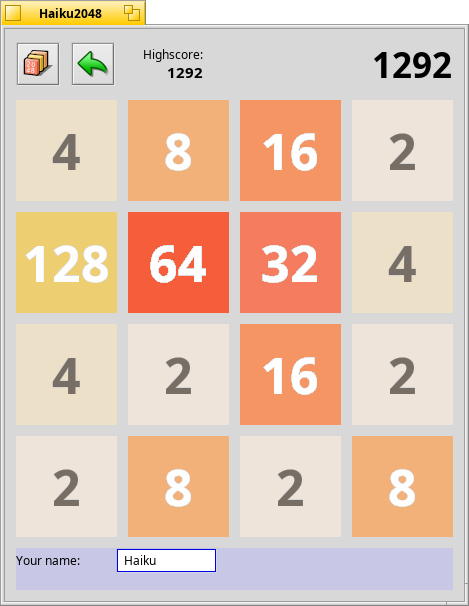
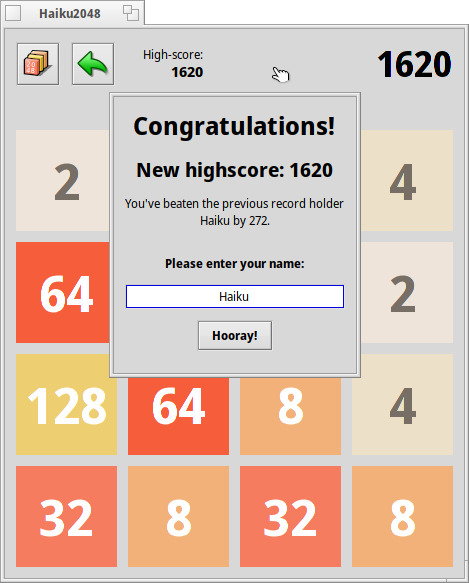
Enter highscore name in a floating window
Top score bar stays put on window resize

Top score bar stays put on window resize (#34)

Add files from pull request #32

Update layout on high score window

Send BMessage to save score and name

Designing the highscore window

Redesign High-score window

Handle previous score and username

Handle no previous highscore

Remove unnecessary include

Upload new screenshot

Change high-score message

diff --git a/HighscoreWindow.cpp b/HighscoreWindow.cpp
@@ -1,0 +1,122 @@
+/*
+ * Copyright 2022, Harshit Sharma <harshits908@gmail.com>
+ * Copyright 2023, Johan Wagenheim
+ * This file is distributed under the terms of the MIT license
+ */
+
+#include "HighscoreWindow.h"
+#include "WindowBoard.h"
+#include "Game.h"
+
+#include <Catalog.h>
+#include <string>
+#include <LayoutBuilder.h>
+#include <Message.h>
+#include <Messenger.h>
+#include <Button.h>
+#include <String.h>
+#include <StringView.h>
+
+#undef B_TRANSLATION_CONTEXT
+#define B_TRANSLATION_CONTEXT "HighscoreWindow"
+
+HighscoreWindow::HighscoreWindow(const char* oldHighscorer, const int32 oldHighscore, 
+	const int32 newHighscore, const BMessenger &messenger)
+	:
+	BWindow(BRect(200, 200, 1,1), 0, B_MODAL_WINDOW, B_NOT_CLOSABLE | B_NOT_RESIZABLE),
+				fMessenger(messenger)
+{
+	BStringView* congratulations = new BStringView("congratulations",
+											B_TRANSLATE("Congratulations!"));
+	congratulations->SetFont(be_bold_font);
+	congratulations->SetFontSize(25);
+	congratulations->SetAlignment(B_ALIGN_HORIZONTAL_CENTER);
+	
+	BString newHighscoreText = B_TRANSLATE("New high-score: %newhighscore%");
+	newHighscoreText.ReplaceFirst("%newhighscore%", std::to_string(newHighscore).c_str());
+	BStringView* newHighScore = new BStringView("newHighScore", newHighscoreText.String());
+	newHighScore->SetFont(be_bold_font);
+	newHighScore->SetFontSize(20);
+	newHighScore->SetAlignment(B_ALIGN_HORIZONTAL_CENTER);
+	
+	BStringView* inputlabel = new BStringView("inputlabel",
+										B_TRANSLATE("Please enter your name:"));
+	inputlabel->SetAlignment(B_ALIGN_HORIZONTAL_CENTER);
+	inputlabel->SetFont(be_bold_font);
+
+	fInputBox = new
+		BTextControl("NameInput", NULL, NULL, new BMessage(H2048_NAME_ENTERED));
+	fInputBox->SetText(B_TRANSLATE("Anonymous"));
+	fInputBox->SetAlignment(B_ALIGN_HORIZONTAL_CENTER,B_ALIGN_HORIZONTAL_CENTER);
+	fInputBox->MakeFocus();
+	
+	BString previousWinner;
+	previousWinner << B_TRANSLATE("This is the first record!");
+	if (oldHighscorer[0]) {
+		// Replace with previous winner and score difference
+		previousWinner = B_TRANSLATE("You've beaten the previous record holder,\n"
+										"%oldHighscorer%, by %deltaScore%.");
+		previousWinner.ReplaceFirst("%oldHighscorer%", oldHighscorer);
+		previousWinner.ReplaceFirst("%deltaScore%", 
+					std::to_string(newHighscore - oldHighscore).c_str());
+	}
+
+	BStringView* previousWinnerText = new BStringView("previousWinner", previousWinner.String());
+	previousWinnerText->SetAlignment(B_ALIGN_HORIZONTAL_CENTER);	
+	
+	BButton *saveName = new BButton("savename", B_TRANSLATE("Hooray!"),
+		new BMessage(H2048_NAME_ENTERED));
+	saveName->SetFontSize(15);
+	saveName->SetFont(be_bold_font);
+	saveName->ResizeToPreferred();
+
+	BLayoutBuilder::Group<>(this, B_VERTICAL)
+		.SetInsets(B_USE_WINDOW_INSETS)
+		.AddGroup(B_VERTICAL)
+			.Add(congratulations)
+			.Add(newHighScore)
+			.Add(previousWinnerText)
+			.AddStrut(2)
+			.Add(inputlabel)
+			.Add(fInputBox)
+			.Add(saveName)
+			.AddGlue()
+			.End();
+			
+	this->ResizeToPreferred();
+}
+
+bool
+HighscoreWindow::QuitRequested()
+{
+	return true;
+}
+
+
+HighscoreWindow::~HighscoreWindow()
+{
+}
+
+
+void
+HighscoreWindow::MessageReceived(BMessage* message)
+{
+	switch(message->what)
+	{
+		case H2048_NAME_ENTERED:
+		{
+			// Set a default value if empty
+			if (!fInputBox->Text()[0])
+				fInputBox->SetText(B_TRANSLATE("Anonymous"));
+
+			BMessage *req = new BMessage(H2048_NAME_REQUESTED);
+			req->AddString("playername", fInputBox->Text());
+			fMessenger.SendMessage(req);
+			Quit();
+			break;
+		}		
+		default:
+			BWindow::MessageReceived(message);
+			break;
+	}
+}

diff --git a/WindowBoard.cpp b/WindowBoard.cpp
@@ -1,5 +1,6 @@
 /*
  * Copyright (c) 2015 Markus Himmel
+ * Copyright 2022, Harshit Sharma <harshits908@gmail.com>
  * This file is distributed under the terms of the MIT license
  */
 
@@ -62,6 +63,7 @@ GameWindow::GameWindow(WindowBoard *master)
 			.AddGlue()
 			.Add(fScore)
 			.End()
+		.AddGlue()
 		.Add(fBoard);
 
 
@@ -185,27 +187,14 @@ GameWindow::MessageReceived(BMessage *message)
 		}
 		case H2048_REQUEST_NAME:
 		{
-			BView *RequestBox = new BView(BRect(), "reqbox", B_FOLLOW_LEFT, B_WILL_DRAW);
-			RequestBox->SetViewColor(ui_color(B_PANEL_BACKGROUND_COLOR));
-			AddChild(RequestBox);
-			fInputBox = new BTextControl(BRect(BPoint(0,10), Bounds().RightBottom() - BPoint(25,0)),
-				"name", B_TRANSLATE("Your name:"), "", new BMessage(H2048_SET_NAME));
-			fInputBox->SetDivider(be_plain_font->StringWidth(fInputBox->Label()) + 5);
-			RequestBox->AddChild(fInputBox);
-			ResizeBy(0.0, 35.0);
-			fInputBox->MakeFocus();
+			BMessenger messenger(fMaster->fTarget);
+			HighscoreWindow *highscoreWindow = new HighscoreWindow(
+								fMaster->fTarget->PreviousUsername(), fMaster->fTarget->PreviousHighscore(),
+								fMaster->fTarget->Score(), messenger);
+			highscoreWindow->Show();
+			highscoreWindow->Activate();
+		
 			break;
-		}
-		case H2048_SET_NAME:
-		{
-			BMessage req(H2048_NAME_REQUESTED);
-			req.AddString("playername", fInputBox->Text());
-			BMessenger messenger(NULL, fMaster->fTarget);
-			messenger.SendMessage(&req);
-			ResizeBy(0.0, -35.0);
-			RemoveChild(FindView("reqbox"));
-			delete fInputBox;
-			fInputBox = NULL;
 		}
 		default:
 			BWindow::MessageReceived(message);
@@ -258,7 +247,7 @@ GameWindow::FrameResized(float width,
 {
 	// We don't want the user to scale the window so small that
 	// there's no space for the buttons.
-	if (width < defaultWidth) {
+	if (width < defaultWidth && height < defaultHeight) {
 		ResizeTo(defaultWidth, defaultHeight);
 		width=defaultWidth;
 	}

diff --git a/HighscoreWindow.h b/HighscoreWindow.h
@@ -1,0 +1,38 @@
+/*
+ * Copyright 2022, Harshit Sharma <harshits908@gmail.com>
+ * Copyright 2023, Johan Wagenheim
+ * All rights reserved. Distributed under the terms of the MIT license.
+ */
+
+#ifndef HIGHSCORE_WINDOW_H
+#define HIGHSCORE_WINDOW_H
+
+
+#include <Window.h>
+#include <Messenger.h>
+
+class BStringView;
+class BTextControl;
+
+enum
+{
+	H2048_NAME_ENTERED = '48NE',
+};
+
+class HighscoreWindow : public BWindow{
+
+public:
+			HighscoreWindow(const char* oldHighscorer, const int32 oldHighscore,
+							const int32 newHighScore, const BMessenger &msgr);
+			~HighscoreWindow();
+
+			bool		QuitRequested();
+			void		MessageReceived(BMessage *message);
+
+private:
+		BTextControl*	fInputBox;
+		BMessenger		fMessenger;
+};
+
+
+#endif // _H

diff --git a/Game.cpp b/Game.cpp
@@ -112,6 +112,8 @@ Game::newGame()
 {
 	fScore = 0;
 	fCanUndo = false;
+	fPreviousHighscore = fScore_Highest;
+	memcpy(fPreviousUsername, fUsername, sizeof(char) * 32);
 
 	// Clear the board
 	for (uint32 x = 0; x < fSizeX; x++)
@@ -183,11 +185,25 @@ Game::Score_Highest() const
 	return fScore_Highest;
 }
 
+
+uint32
+Game::PreviousHighscore() const
+{
+	return fPreviousHighscore;
+}
+
 const char *
 Game::Username() const
 {
 	return fUsername;
 }
+
+const char *
+Game::PreviousUsername() const
+{
+	return fPreviousUsername;
+}
+
 
 void
 Game::makeMove(GameMove direction)

diff --git a/WindowBoard.h b/WindowBoard.h
@@ -1,5 +1,6 @@
 /*
  * Copyright (c) 2015 Markus Himmel
+ * Copyright 2022, Harshit Sharma <harshits908@gmail.com>
  * This file is distributed under the terms of the MIT license
  */
 
@@ -7,9 +8,11 @@
 #define WINDOW_BOARD_H
 
 #include "GameBoard.h"
+#include "HighscoreWindow.h"
 
 #include <Window.h>
 #include <Bitmap.h>
+
 class Game;
 class BButton;
 class NumberView;
@@ -60,6 +63,8 @@ private:
 	// we have to control the state of it
 	// (enabled / disabled)
 	BButton * 			undoButton;
+	int32				fPreviousHighscore;
+	const char *		fPreviousUsername;
 };
 
 

diff --git a/Game.h b/Game.h
@@ -50,6 +50,8 @@ public:
 			uint32		SizeX() const;
 			uint32		SizeY() const;
 			const char *Username() const;
+			uint32		PreviousHighscore() const;
+			const char *PreviousUsername() const;
 
 private:
 			void		newGame();
@@ -80,6 +82,8 @@ private:
 	bool						fInGame;
 	uint32						fScore;
 	uint32						fScore_Highest;
+	uint32						fPreviousHighscore;
+	char						fPreviousUsername[32];
 	char						fUsername[32];
 	char						fPlayername[32];
 	char						fHighscore_path[128];
